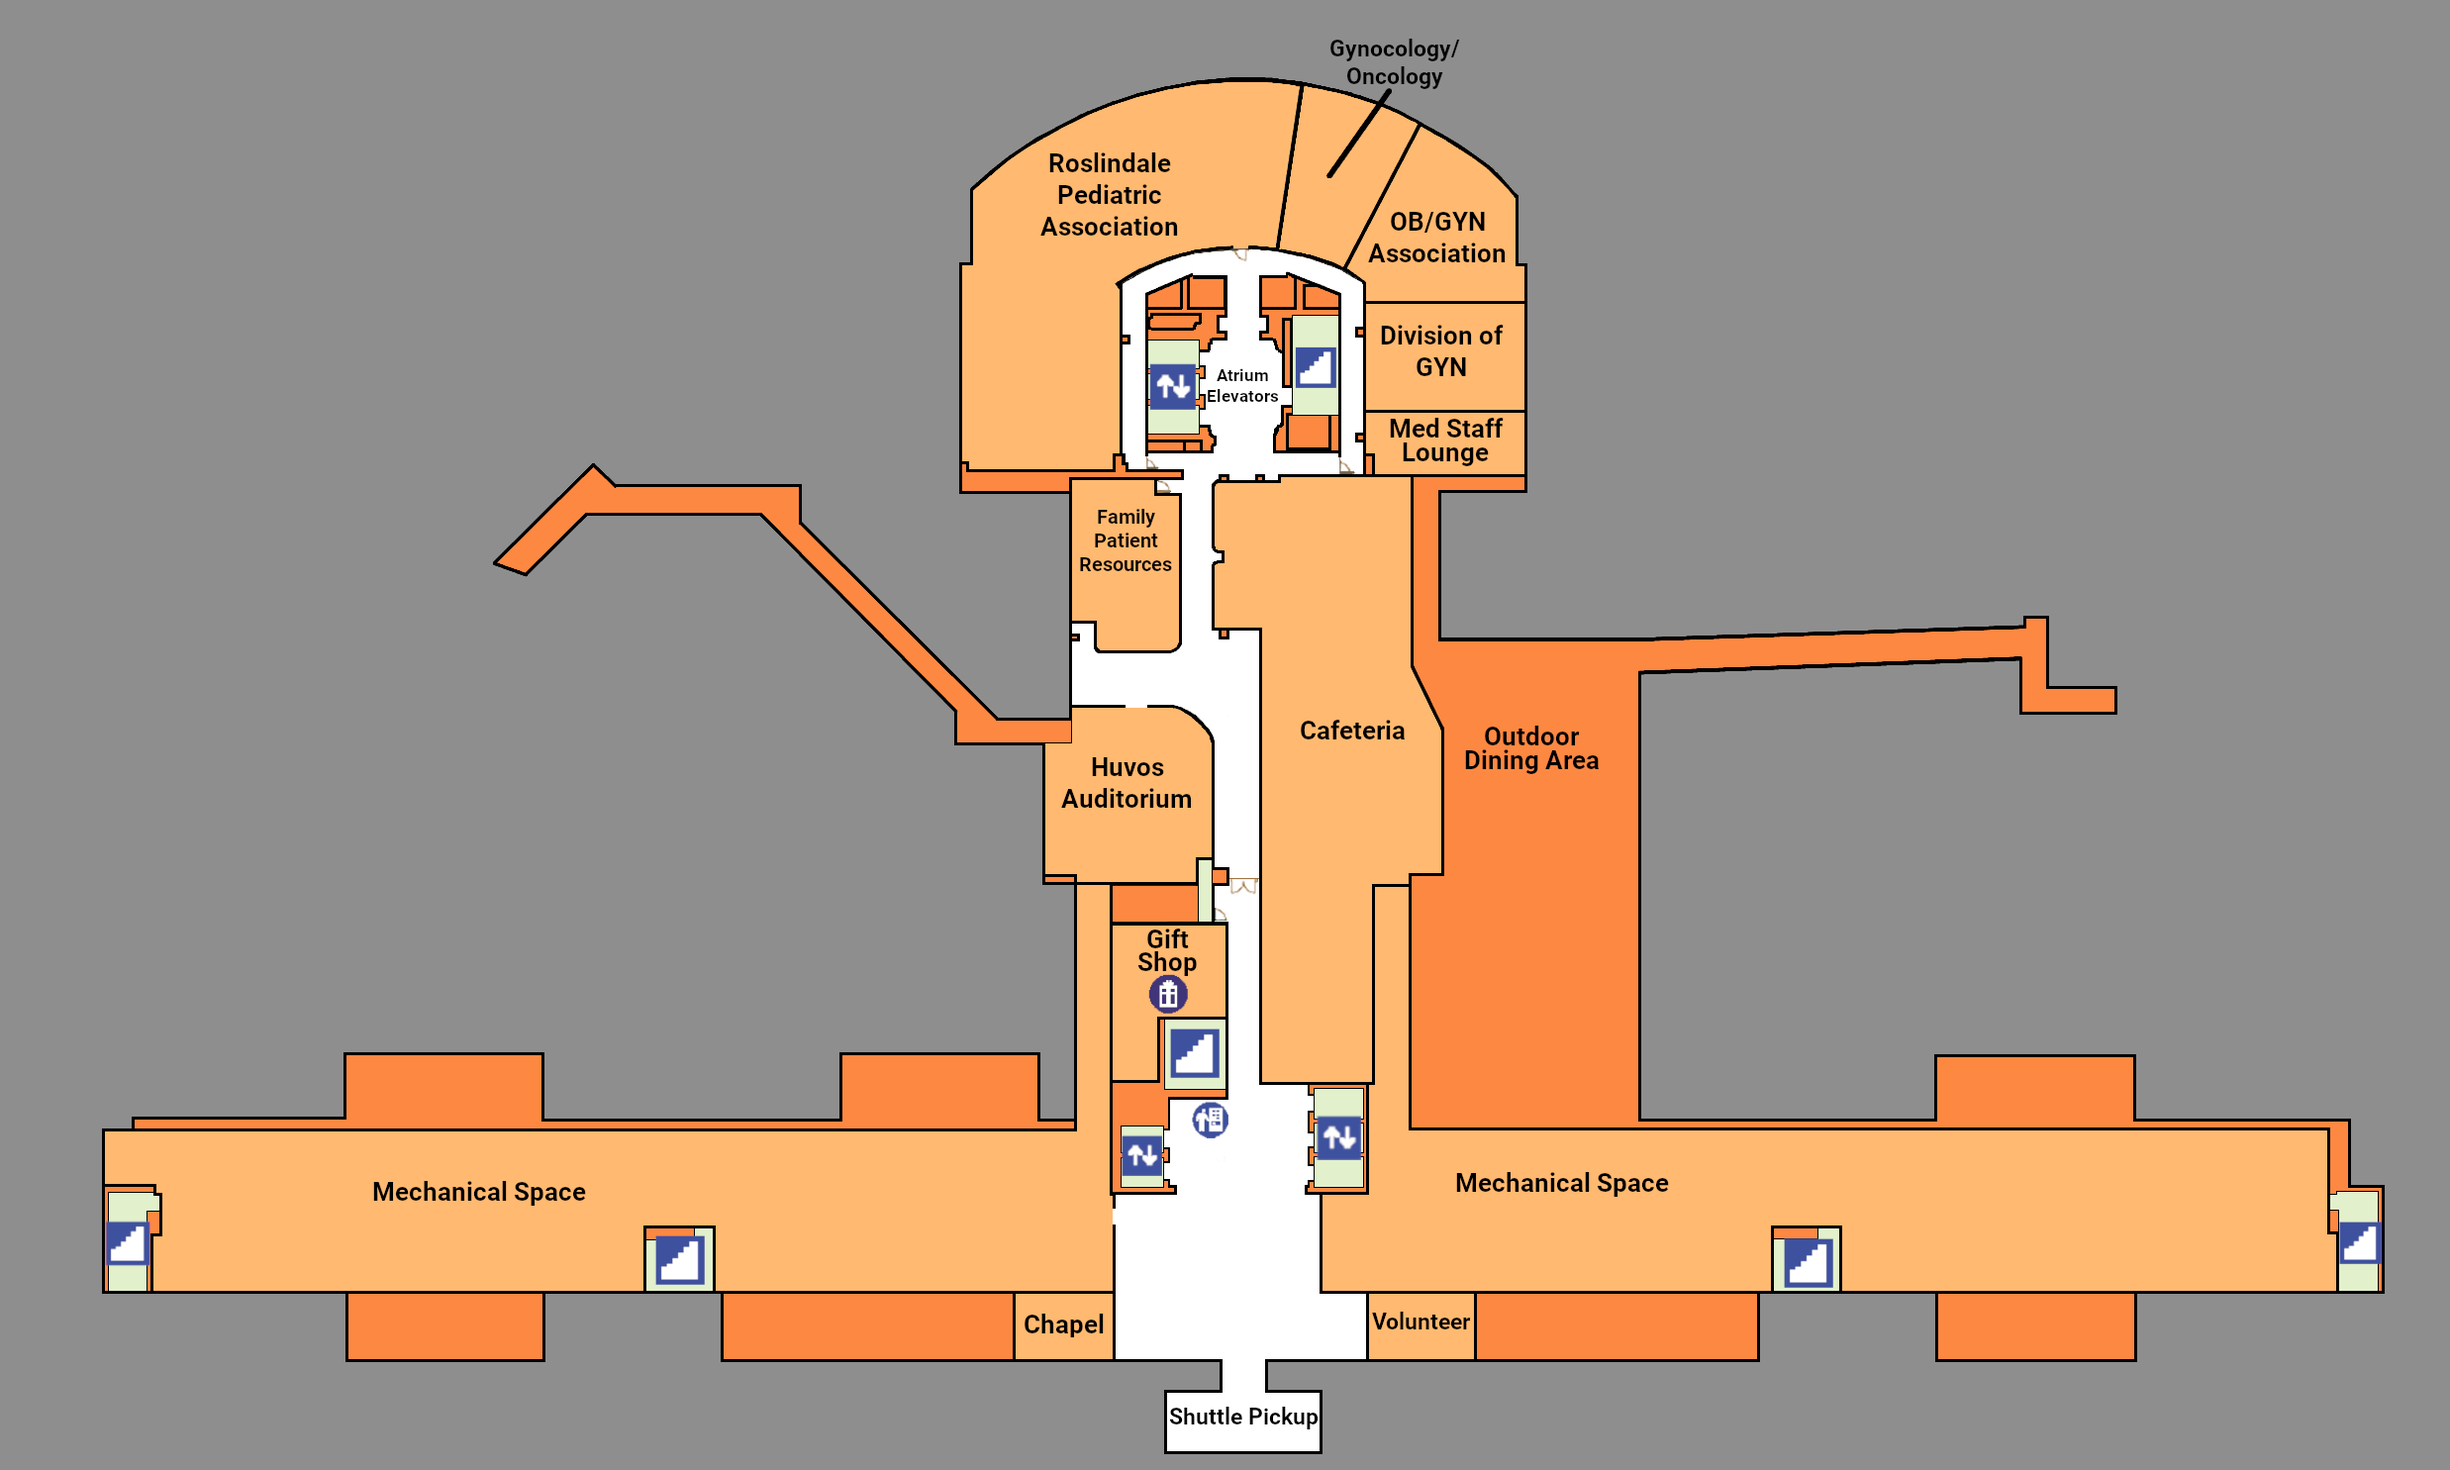
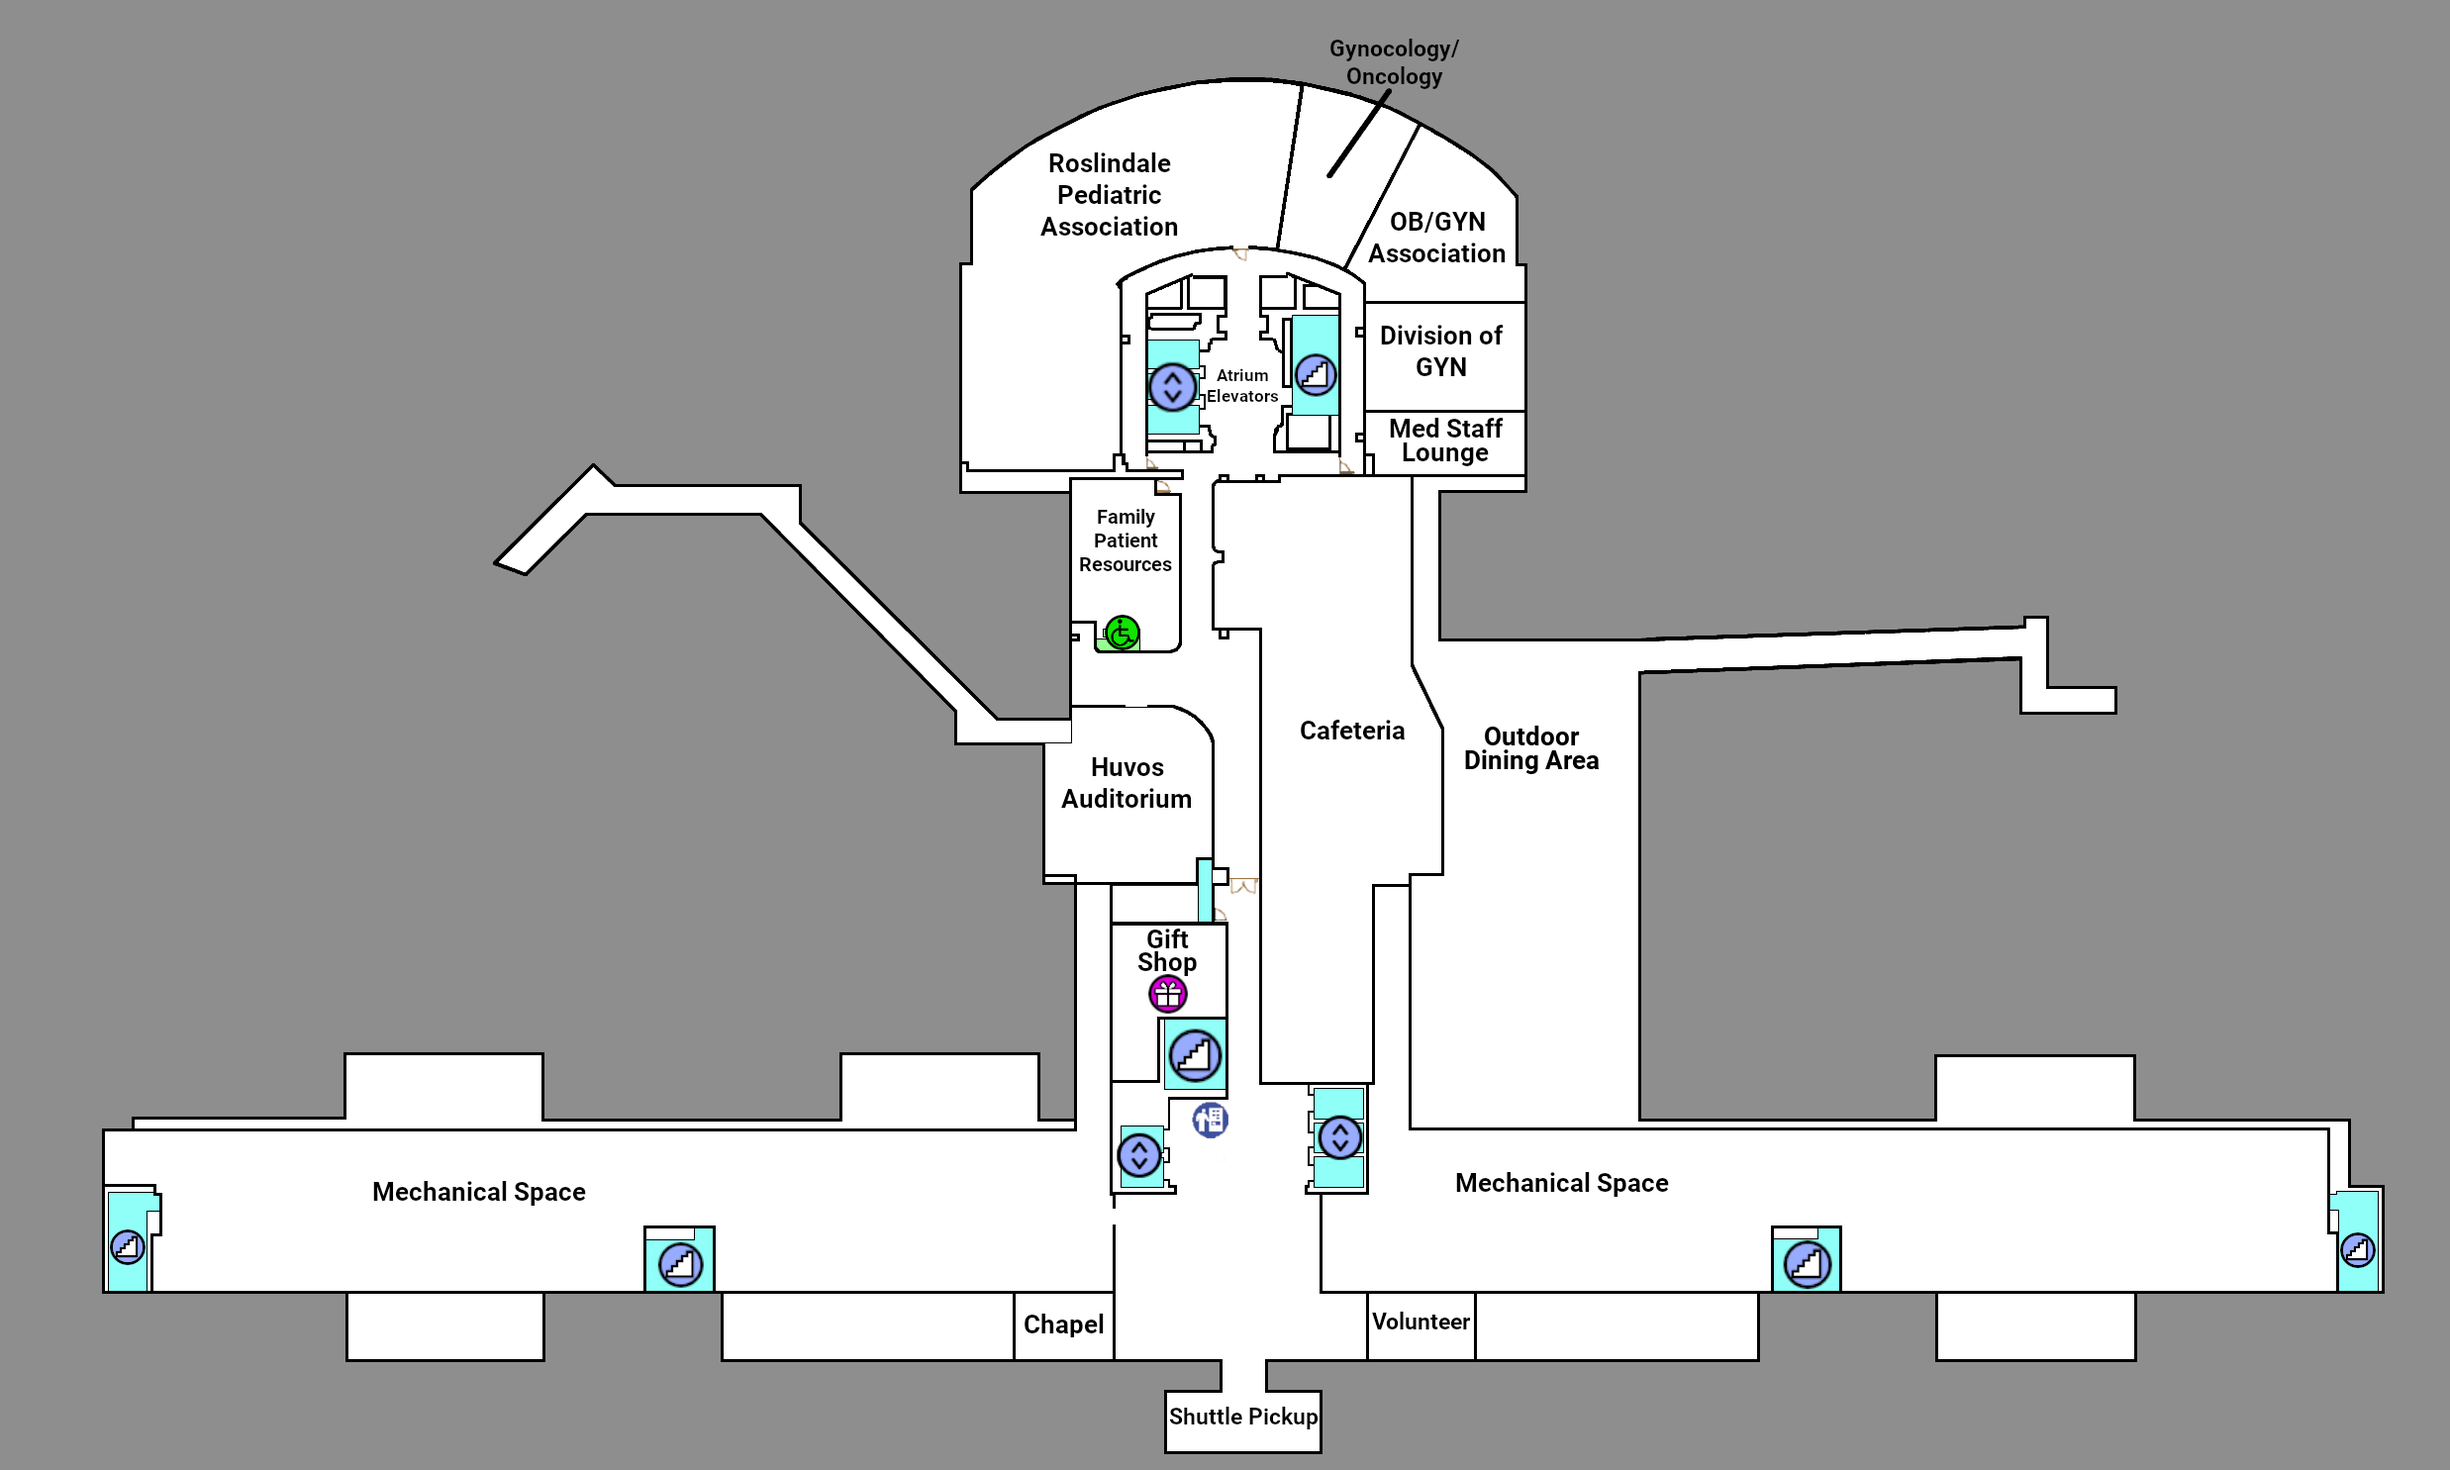
Updated new floor maps

Changed region(s): [[0.0311, 0.031, 0.9956, 0.9293], [0.1867, 0.3717, 0.2178, 0.4027]]

diff --git a/docs/flutter_service_worker.js b/docs/flutter_service_worker.js
@@ -4,7 +4,7 @@ const RESOURCES = {
   "icons/Icon-192.png": "ac9a721a12bbc803b44f645561ecb1e1",
 "icons/Icon-512.png": "96e752610906ba2a93c65f8abe1645f1",
 "manifest.json": "8c76aa4df182e5cdae50eb4d9fb9fcba",
-"main.dart.js": "6f7ca32925deb9838a33b508e50003b0",
+"main.dart.js": "acfd98ab80e769cac2734c50cebd005d",
 "index.html": "d13c5250e5018aa52d6d90698cce858a",
 "/": "d13c5250e5018aa52d6d90698cce858a",
 "assets/FontManifest.json": "580ff1a5d08679ded8fcf5c6848cece7",
@@ -12,11 +12,11 @@ const RESOURCES = {
 "assets/LICENSE": "c98da95c70612cf417cbeb9431716ae5",
 "assets/fonts/MaterialIcons-Regular.ttf": "56d3ffdef7a25659eab6a68a3fbfaf16",
 "assets/assets/logo.png": "4efc8914d5b94891ed9a8d6f1ea87848",
-"assets/assets/maps/f4.png": "27d106458122ea2ca6b83407e2e50071",
-"assets/assets/maps/f3.png": "691f0b98837f5cae02513a63f08a654a",
-"assets/assets/maps/f1.png": "c079b281ef519570ae60811b6b1fdebe",
-"assets/assets/maps/f2.png": "8b3a3b0fda35d92150fae4579a47a5c4",
-"assets/assets/maps/f5.png": "fe247a9e2b89e5f7a7b03a768c95e1c9",
+"assets/assets/maps/f4.png": "5d79ff1d60d7101898fffb1ff572ed6e",
+"assets/assets/maps/f3.png": "45a8432d2ad6d801e9d25bf3211c9b23",
+"assets/assets/maps/f1.png": "70cb5ff2a10f7215fba0223cb08ad964",
+"assets/assets/maps/f2.png": "b5407c0036c9ad436f954acd18d344fb",
+"assets/assets/maps/f5.png": "0b63c2902c930ce6b9f3c400cec04ffd",
 "favicon.png": "4efc8914d5b94891ed9a8d6f1ea87848"
 };
 

diff --git a/docs/main.dart.js b/docs/main.dart.js
@@ -40670,7 +40670,7 @@ t.push(new U.nF("",!1,!0,r,r,r,!1,r,C.a_,C.l,"",!0,!1,r,C.aG))
 return!1}return!0}}
 X.o_.prototype={
 aH:function(){var t=E.Z9().h(0,"c"),s=H.Xs(t==null?"":t,null)
-t=s==null?4281487016:s
+t=s==null?4294805570:s
 return new X.Be(new P.D((t&4294967295)>>>0),E.a6i(),null,C.m)}}
 X.Be.prototype={
 jm:function(){var t=0,s=P.ah(u.CP),r,q=this,p,o,n
